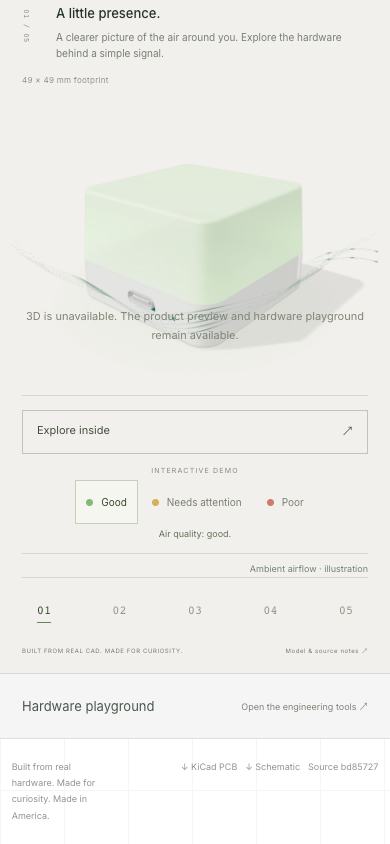
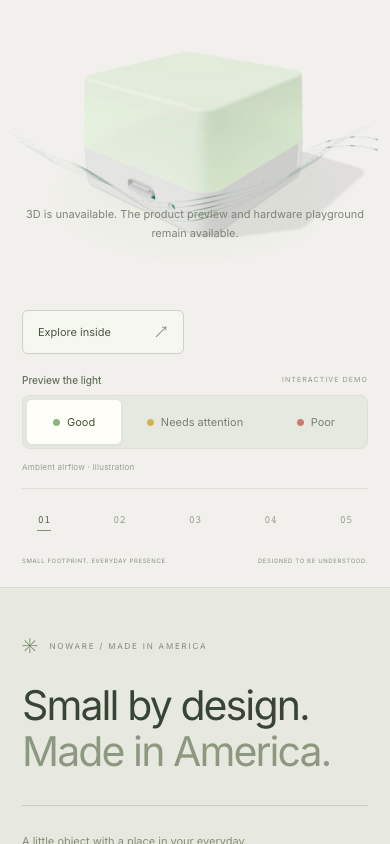
Refine NOWARE homepage with cohesive styling and Made in America presentation

diff --git a/src/showcase/showcase.css b/src/showcase/showcase.css
@@ -1,26 +1,155 @@
-.hardware-story{--air-color:#7dbb70;background:#f1f0ec;color:#29332e;position:relative;height:calc(100svh + 1000px);border-bottom:1px solid #d8d9d2}.hardware-sticky{position:sticky;top:0;min-height:760px;height:100svh;max-height:1050px;padding:24px 4.8% 16px;display:flex;flex-direction:column}.hardware-topline,.hardware-bottomline{display:flex;justify-content:space-between;font-size:9px;letter-spacing:1.5px;color:#777c74}.hardware-topline{padding-bottom:22px;border-bottom:1px solid #d9dcd3}.hardware-layout{display:grid;grid-template-columns:39% 61%;flex:1;min-height:390px}.hardware-copy{padding:43px 0 18px;position:relative;z-index:2}.hardware-kicker{font-size:8px;letter-spacing:1.4px;display:flex;align-items:center;gap:8px;color:#71796f}.hardware-kicker>span{width:5px;height:5px;background:#74906a;border-radius:50%}.hardware-copy h2{font-size:clamp(42px,4.4vw,70px);line-height:1.02;letter-spacing:-3px;font-weight:500;margin:25px 0 23px}.hardware-copy h2 em{font-style:normal;color:#899082}.hardware-intro{font-size:13px;line-height:1.8;color:#747b71}.hardware-cta{display:inline-flex;align-items:center;gap:40px;background:#29382e;color:#f5f5ed;padding:14px 18px;margin-top:24px;font-size:11px}.hardware-cta:hover{background:#435540}.hardware-chapter{margin-top:35px;max-width:290px;padding-left:34px;position:relative}.hardware-chapter>span{position:absolute;top:4px;left:0;font:8px monospace;color:#878e80;writing-mode:vertical-rl}.hardware-chapter h3{font-size:15px;font-weight:500;margin-bottom:8px}.hardware-chapter p{font-size:11px;color:#777f72;line-height:1.65}.hardware-visual{position:relative;min-width:0;min-height:400px}.hardware-canvas,.hardware-poster{position:absolute;inset:0;width:100%;height:100%}.hardware-poster{object-fit:contain;transition:opacity .5s}.hardware-ready .hardware-poster{opacity:0;pointer-events:none}.hardware-canvas canvas{display:block;touch-action:pan-y;cursor:grab}.hardware-canvas canvas:active{cursor:grabbing}.hardware-model-meta{position:absolute;z-index:2;top:23px;left:7%;right:0;display:flex;justify-content:space-between;font-size:9px;color:#909487;letter-spacing:.3px;pointer-events:none}.hardware-view-tools{position:absolute;bottom:16px;left:0;right:0;display:flex;align-items:center;justify-content:center;gap:22px;font-size:9px;color:#858c7d}.hardware-view-tools button{border:0;border-left:1px solid #cbd0c1;padding:6px 0 6px 22px;background:none;color:#58634e;font-size:9px}.hardware-controls{padding:20px 0;border-top:1px solid #d5d9cd;border-bottom:1px solid #d5d9cd;display:flex;justify-content:space-between;align-items:center;gap:15px}.hardware-assembly{display:flex;gap:8px}.hardware-assembly button{border:1px solid #bfc6b5;background:transparent;color:#424d3b;padding:12px 14px;min-height:44px;font-size:11px;white-space:nowrap}.hardware-assembly button:first-child{min-width:160px;display:flex;justify-content:space-between;gap:20px}.hardware-assembly button[aria-pressed=true]{background:#e1e5d9}.hardware-air{display:flex;align-items:center;gap:18px}.hardware-demo{font-size:8px;letter-spacing:1.2px;color:#858d7c}.hardware-air [role=group]{display:flex;gap:3px}.hardware-air button{border:1px solid transparent;padding:11px 12px;min-height:44px;background:none;font-size:10px;color:#7a8173;white-space:nowrap}.hardware-air button[aria-pressed=true]{border-color:#c7cebc;color:#35462d;background:#fafbf380}.hardware-air i{display:inline-block;width:7px;height:7px;border-radius:50%;background:#85b977;margin-right:8px}.hardware-air [data-air=attention] i{background:#d4b156}.hardware-air [data-air=poor] i{background:#ce7b6b}.hardware-status{font-size:10px;min-width:165px;color:#63705b}.hardware-details{min-height:75px;padding:15px 0;display:flex;align-items:flex-start;gap:20px;position:relative}.hardware-part-copy{display:flex;flex-direction:column;gap:6px;max-width:480px}.hardware-part-copy strong{font-size:11px;font-weight:500}.hardware-part-copy>span{font-size:10px;line-height:1.6;color:#7b8472}.hardware-part-buttons{margin-left:auto;display:flex;flex-wrap:wrap;max-width:470px;justify-content:flex-end;gap:3px}.hardware-part-buttons button{font-size:9px;min-height:32px;background:none;border:1px solid #d3d9ca;padding:6px 9px;color:#66745a}.hardware-part-buttons button[aria-pressed=true]{background:#dce5d2}.hardware-part-buttons[hidden],.hardware-flow-note[hidden]{display:none}.hardware-flow-note{font-size:9px;color:#687b5b;max-width:170px;line-height:1.5}.hardware-chapters{display:flex;gap:22px;border-top:1px solid #d5d9cd;padding:10px 0}.hardware-chapters button{font-size:10px;color:#8e9686;background:none;border:0;min-height:36px;padding:0}.hardware-chapters button>span{font:9px monospace;margin-right:8px}.hardware-chapters button[aria-current=step]{color:#334c2b}.hardware-chapters button[aria-current=step]>span{border-bottom:1px solid #688354;padding-bottom:5px}.hardware-chapters [data-action=scroll]{margin-left:auto;font-size:9px}.hardware-bottomline{font-size:8px;letter-spacing:1px;margin-top:auto;padding-top:5px}.hardware-anchors button{position:absolute;z-index:3;border:0;border-bottom:1px solid #aeb9a5;background:#f1f0ecdd;color:#425637;padding:7px 9px;font-size:9px;transform:translate(30px,-12px);min-height:32px}.hardware-anchors button:before{content:'';position:absolute;width:30px;height:1px;left:-30px;top:50%;background:#899c7a}.hardware-fallback{position:absolute;bottom:50px;left:0;right:0;text-align:center;color:#7c8474;font-size:11px}.hardware-story button:focus-visible,.hardware-story a:focus-visible{outline:2px solid #4c683d;outline-offset:4px}.hardware-story button:hover{color:#283f1e}.hardware-unavailable .hardware-view-tools{display:none}
-@media(min-width:1700px){.hardware-sticky{padding-left:max(5%,calc((100vw - 1530px)/2));padding-right:max(5%,calc((100vw - 1530px)/2))}}
-@media(max-width:1100px){.hardware-status{display:none}.hardware-air{gap:8px}.hardware-copy h2{font-size:49px}.hardware-demo{max-width:60px;line-height:1.5}.hardware-details{min-height:95px}.hardware-chapters{gap:15px}.hardware-chapters button{font-size:9px}}
-@media(max-width:700px){.hardware-story{height:auto}.hardware-sticky{position:relative;min-height:0;height:auto;max-height:none;padding:21px 22px 18px}.hardware-topline{font-size:7px;letter-spacing:1px;padding-bottom:17px}.hardware-layout{display:flex;flex-direction:column;min-height:0}.hardware-copy{padding:25px 0 0}.hardware-kicker{font-size:7px}.hardware-copy h2{font-size:43px;letter-spacing:-2px;margin:17px 0 15px;line-height:1.07}.desktop-break{display:none}.hardware-intro{font-size:11px}.hardware-cta{font-size:10px;margin-top:17px;padding:12px 14px}.hardware-chapter{margin-top:20px;max-width:100%;min-height:65px}.hardware-chapter h3{font-size:13px}.hardware-chapter p{font-size:10px;max-width:290px}.hardware-visual{height:330px;min-height:330px;margin:-5px -10px 0}.hardware-model-meta{top:10px;font-size:8px;left:10px;right:10px}.hardware-view-tools{bottom:5px}.hardware-controls{flex-direction:column;gap:12px;padding:14px 0;align-items:stretch}.hardware-assembly{justify-content:center}.hardware-assembly button{flex:1}.hardware-air{flex-wrap:wrap;justify-content:center;gap:4px 7px}.hardware-demo{max-width:none;width:100%;text-align:center;font-size:7px}.hardware-air button{font-size:10px;padding:9px 10px}.hardware-status{display:block;min-width:0;width:100%;text-align:center;font-size:9px}.hardware-details{min-height:75px;flex-wrap:wrap;gap:9px}.hardware-part-copy{max-width:none}.hardware-part-buttons{margin:0;justify-content:flex-start;max-width:none}.hardware-part-buttons button{min-height:44px}.hardware-flow-note{max-width:none}.hardware-chapters{gap:3px;justify-content:space-between;flex-wrap:wrap}.hardware-chapters button{font-size:0;min-width:44px;min-height:44px}.hardware-chapters button>span{font-size:12px;margin:0}.hardware-bottomline{font-size:6px;letter-spacing:.6px;gap:12px}.hardware-anchors button{font-size:8px;transform:translate(18px,-12px);min-height:36px}.hardware-anchors button:before{width:18px;left:-18px}}
-@media(prefers-reduced-motion:reduce){.hardware-story{height:auto}.hardware-sticky{position:relative}.hardware-poster{transition:none}}
-.hardware-anchors [data-anchor=pcb]{transform:translate(-175px,-12px)}.hardware-anchors [data-anchor=pcb]:before{left:auto;right:-60px;width:60px}.hardware-anchors [data-anchor=diffuser]{transform:translate(130px,-12px)}.hardware-anchors [data-anchor=diffuser]:before{left:-45px;width:45px}
-@media(max-width:700px){.hardware-anchors [data-anchor=pcb]{transform:translate(-110px,-12px)}.hardware-anchors [data-anchor=pcb]:before{right:-20px;width:20px}.hardware-anchors [data-anchor=diffuser]{transform:translate(55px,-12px)}.hardware-anchors [data-anchor=diffuser]:before{left:-20px;width:20px}}
-.hardware-story>.hardware-sticky>.hardware-flow-note{max-width:none;margin:8px 0 0;min-height:15px;font-size:9px;text-align:right;color:#72817c}
-.hardware-playground{background:#f5f5f5}.hardware-playground>summary{list-style:none;display:flex;justify-content:space-between;align-items:center;cursor:pointer;padding:28px 4.8%;font-size:13px;color:#4c584e;border-bottom:1px solid #dedfd8}.hardware-playground>summary::-webkit-details-marker{display:none}.hardware-playground>summary span{font-size:10px;color:#7b8378}.hardware-playground>summary:focus-visible{outline:2px solid #4c683d;outline-offset:-5px}.hardware-playground[open]>summary{background:#e8ebe3}
-@media(max-width:700px){.hardware-playground>summary{padding:24px 22px;gap:20px}.hardware-playground>summary span{font-size:9px}}
-/* Make the interactive choices read as controls, rather than a footer legend. */
-.hardware-air{display:grid;gap:10px;justify-content:start}.hardware-air-heading{display:flex;align-items:center;justify-content:space-between;gap:24px;font-size:12px;font-weight:500;color:#3d4d3b}.hardware-air .hardware-demo{font-size:8px;font-weight:400;max-width:none;width:auto;letter-spacing:1px}.hardware-air [role=group]{gap:7px}.hardware-air button{min-height:46px;border:1px solid #bdc7b5;background:#ffffff38;padding:12px 16px;color:#4b5845;font-size:12px;transition:background .2s,border-color .2s,box-shadow .2s}.hardware-air button:hover{background:#ffffff90;border-color:#71836a}.hardware-air button[aria-pressed=true]{border-color:#6f8661;background:#e4ecd9;box-shadow:inset 0 -2px #6f8661}.hardware-air i{width:9px;height:9px;margin-right:9px}.hardware-air .hardware-status{display:block;text-align:left;width:auto;min-width:0;font-size:10px}.hardware-assembly button{font-size:12px;min-height:46px;background:#e5e9df;border-color:#b6c0ac}.hardware-assembly button:first-child{min-width:180px}
-@media(max-width:700px){.hardware-air{width:100%}.hardware-air-heading{font-size:12px;gap:12px}.hardware-air [role=group]{display:grid;grid-template-columns:1fr 1.5fr 1fr;gap:5px}.hardware-air button{font-size:11px;padding:12px 8px}.hardware-air i{margin-right:6px}.hardware-air .hardware-demo{font-size:7px}}
-.hardware-controls{justify-content:flex-start;gap:28px;padding:18px 0 18px 39%;align-items:center;border-top:0}.hardware-chapters{border-top:0}
-@media(max-width:1100px){.hardware-controls{padding-left:0;justify-content:center}}
-@media(max-width:700px){.hardware-controls{gap:18px;align-items:stretch}.hardware-assembly{justify-content:flex-start}.hardware-assembly button{flex:0 0 auto}}
-/* Quiet, tactile controls that share the product's softer finish. */
-.hardware-controls{align-items:flex-end;gap:24px;padding-top:16px;padding-bottom:22px}
-.hardware-assembly button,.hardware-assembly button[aria-pressed=true]{min-height:44px;min-width:172px;border:1px solid #cdd2c5;border-radius:6px;background:#f7f7f2;color:#47533e;padding:11px 15px;font-size:11px;box-shadow:0 1px 2px #25301d05}
-.hardware-assembly button:hover{background:#fffef8;border-color:#a4af98}.hardware-assembly button span{font-size:14px;color:#7b8770}
-.hardware-air{gap:9px}.hardware-air-heading{font-size:10px;font-weight:500;color:#64705b;gap:35px}.hardware-air .hardware-demo{font-size:7px;letter-spacing:1.1px;color:#909787}
-.hardware-air [role=group]{display:flex;gap:3px;padding:4px;background:#e6e9e0;border:1px solid #dce1d3;border-radius:8px}
-.hardware-air button{min-height:36px;border:0;border-radius:5px;background:transparent;padding:9px 14px;font-size:11px;color:#75806b;box-shadow:none}
-.hardware-air button:hover{background:#f2f4ed;color:#44543a}.hardware-air button[aria-pressed=true]{border:0;background:#fffef9;color:#3e5132;box-shadow:0 1px 4px #2c3d2414,inset 0 0 0 1px #ffffff80}
-.hardware-air i{width:7px;height:7px;margin-right:7px}.hardware-air .hardware-status{position:absolute;width:1px;height:1px;padding:0;margin:-1px;overflow:hidden;clip-path:inset(50%);white-space:nowrap}
-@media(max-width:700px){.hardware-controls{align-items:stretch;gap:18px}.hardware-air [role=group]{display:grid;grid-template-columns:1fr 1.5fr 1fr}.hardware-air button{min-height:40px;padding:10px 7px;font-size:10px}.hardware-air-heading{font-size:10px}.hardware-assembly button:first-child{min-width:172px}}
+/* NOWARE product presentation. Engineering-tool styles remain in style.css. */
+.noware-home { background: #f1f0ec; }
+.noware-home header { height: 72px; padding: 0 4.8%; background: #f1f0ec; border-color: #dedfd6; }
+.noware-home header .brand strong { font-size: 27px; letter-spacing: -1.5px; }
+.noware-home header .brand > span { font-size: 11px; color: #899080; }
+.noware-home header .header-right { letter-spacing: .6px; }
+.noware-home header .github { color: #54604c; }
+.noware-home footer { padding: 25px 4.8%; background: #eeeee8; border-top: 1px solid #dedfd6; color: #7c8474; }
+.hardware-story {
+ --air-color: #7dbb70;
+ background: #f1f0ec; color: #29332e; position: relative;
+ height: calc(100svh + 1000px); border-bottom: 1px solid #d8d9d2;
+}
+.hardware-sticky {
+ position: sticky; top: 0; min-height: 740px; height: calc(100svh - 72px); max-height: 1050px;
+ padding: 25px 4.8% 20px; display: flex; flex-direction: column;
+}
+.hardware-topline, .hardware-bottomline {
+ display: flex; justify-content: space-between; gap: 20px;
+ font-size: 8px; letter-spacing: 1.5px; color: #87907e;
+}
+.hardware-topline { padding-bottom: 20px; }
+.hardware-bottomline { margin-top: auto; padding-top: 18px; font-size: 7px; letter-spacing: 1.2px; }
+.hardware-layout { display: grid; grid-template-columns: 39% 61%; flex: 1; min-height: 380px; }
+.hardware-copy { padding: 42px 0 12px; position: relative; z-index: 2; }
+.hardware-kicker { display: flex; align-items: center; gap: 9px; font-size: 9px; letter-spacing: 1.9px; color: #6f7d65; }
+.hardware-kicker > span { width: 5px; height: 5px; background: #7c8d6f; border-radius: 50%; }
+.hardware-copy h2 { font-size: clamp(44px,4.5vw,72px); line-height: 1.025; letter-spacing: -3.5px; font-weight: 500; margin: 25px 0; }
+.hardware-copy h2 em { font-style: normal; color: #929988; }
+.hardware-intro { font-size: 13px; line-height: 1.85; color: #7e8578; }
+.hardware-cta { display: inline-flex; align-items: center; gap: 36px; padding: 14px 19px; margin-top: 25px; border-radius: 4px; background: #303e31; color: #f6f6ee; font-size: 11px; transition: background .2s; }
+.hardware-cta:hover { background: #4b5a42; }
+.hardware-chapter { margin-top: 33px; padding-left: 32px; max-width: 285px; position: relative; }
+.hardware-chapter > span { position: absolute; top: 4px; left: 0; font: 8px monospace; color: #929a87; writing-mode: vertical-rl; }
+.hardware-chapter h3 { font-size: 13px; font-weight: 500; margin-bottom: 7px; }
+.hardware-chapter p { font-size: 10px; line-height: 1.7; color: #858d7b; }
+.hardware-visual { position: relative; min-width: 0; min-height: 380px; }
+.hardware-canvas, .hardware-poster { position: absolute; inset: 0; width: 100%; height: 100%; }
+.hardware-poster { object-fit: contain; transition: opacity .5s; }
+.hardware-ready .hardware-poster { opacity: 0; pointer-events: none; }
+.hardware-canvas canvas { display: block; touch-action: pan-y; cursor: grab; }
+.hardware-canvas canvas:active { cursor: grabbing; }
+.hardware-model-meta { position: absolute; z-index: 2; top: 16px; left: 7%; font-size: 9px; letter-spacing: .2px; color: #8e9784; pointer-events: none; }
+.hardware-view-tools { position: absolute; bottom: 7px; left: 0; right: 0; display: flex; align-items: center; justify-content: center; gap: 20px; font-size: 9px; color: #89927f; }
+.hardware-view-tools button { border: 0; border-left: 1px solid #cfd5c6; padding: 7px 0 7px 20px; background: none; color: #6e7b61; font-size: 9px; }
+.hardware-controls { display: flex; justify-content: center; align-items: flex-end; gap: 24px; padding: 18px 0 14px 39%; }
+.hardware-assembly { display: flex; }
+.hardware-assembly button { display: flex; align-items: center; justify-content: space-between; gap: 32px; min-width: 169px; min-height: 46px; padding: 11px 15px; border: 1px solid #cdd2c5; border-radius: 6px; background: #f7f7f2; color: #47533e; font-size: 11px; box-shadow: 0 1px 2px #25301d05; }
+.hardware-assembly button:hover { background: #fffef8; border-color: #a4af98; }
+.hardware-assembly button span { font-size: 14px; color: #7b8770; }
+.hardware-air { display: grid; gap: 9px; }
+.hardware-air-heading { display: flex; align-items: center; justify-content: space-between; gap: 30px; font-size: 10px; font-weight: 500; color: #64705b; }
+.hardware-demo { font-size: 7px; font-weight: 400; letter-spacing: 1.1px; color: #909787; }
+.hardware-air [role=group] { display: flex; gap: 3px; padding: 4px; border: 1px solid #dce1d3; border-radius: 8px; background: #e6e9e0; }
+.hardware-air button { white-space: nowrap; min-height: 36px; padding: 9px 14px; border: 0; border-radius: 5px; background: transparent; font-size: 11px; color: #5d6953; transition: background .2s,box-shadow .2s; }
+.hardware-air button:hover { background: #f2f4ed; color: #44543a; }
+.hardware-air button[aria-pressed=true] { background: #fffef9; color: #3e5132; box-shadow: 0 1px 4px #2c3d2414,inset 0 0 0 1px #ffffff80; }
+.hardware-air i { display: inline-block; width: 7px; height: 7px; margin-right: 7px; border-radius: 50%; background: #85b977; }
+.hardware-air [data-air=attention] i { background: #d4b156; }
+.hardware-air [data-air=poor] i { background: #ce7b6b; }
+.hardware-status { position: absolute; width: 1px; height: 1px; padding: 0; margin: -1px; overflow: hidden; clip-path: inset(50%); white-space: nowrap; }
+.hardware-flow-note { text-align: center; margin: 0 0 12px 39%; font-size: 8px; color: #98a18e; letter-spacing: .25px; }
+.hardware-chapters { display: flex; justify-content: space-between; gap: 12px; margin-left: 39%; padding-top: 8px; border-top: 1px solid #dde1d5; }
+.hardware-chapters button { border: 0; background: none; min-height: 34px; padding: 0; font-size: 9px; color: #9aa28f; }
+.hardware-chapters button > span { margin-right: 6px; font: 8px monospace; }
+.hardware-chapters button[aria-current=step] { color: #526844; }
+.hardware-chapters button[aria-current=step] > span { border-bottom: 1px solid #7e926c; padding-bottom: 4px; }
+.hardware-chapters [data-action=scroll] { position: absolute; bottom: 18px; right: 4.8%; min-height: 22px; font-size: 8px; background: #f1f0ec; }
+.hardware-story:has([data-action=scroll]:not([hidden])) .hardware-bottomline > span:last-child { visibility: hidden; }
+.hardware-anchors button { position: absolute; z-index: 3; min-height: 32px; padding: 7px 9px; border: 0; border-bottom: 1px solid #aeb9a5; background: #f1f0ecdd; color: #425637; font-size: 9px; transform: translate(30px,-12px); }
+.hardware-anchors button:before { content: ''; position: absolute; width: 30px; height: 1px; left: -30px; top: 50%; background: #899c7a; }
+.hardware-anchors [data-anchor=pcb] { transform: translate(-175px,-12px); }
+.hardware-anchors [data-anchor=pcb]:before { left: auto; right: -60px; width: 60px; }
+.hardware-anchors [data-anchor=diffuser] { transform: translate(130px,-12px); }
+.hardware-anchors [data-anchor=diffuser]:before { left: -45px; width: 45px; }
+.hardware-fallback { position: absolute; bottom: 45px; left: 0; right: 0; text-align: center; color: #7c8474; font-size: 11px; }
+.hardware-unavailable .hardware-view-tools { display: none; }
+.hardware-story button:focus-visible, .hardware-story a:focus-visible, .hardware-origin a:focus-visible { outline: 2px solid #6a805b; outline-offset: 4px; }
+.hardware-origin { padding: 75px 8% 55px; background: #e7e9e0; color: #384534; }
+.origin-eyebrow { display: flex; align-items: center; gap: 10px; font-size: 8px; letter-spacing: 1.8px; color: #7d8872; }
+.origin-eyebrow > span { font-size: 21px; color: #6b7f5b; }
+.hardware-origin h2 { font-size: clamp(38px,4.5vw,68px); line-height: 1.12; font-weight: 400; letter-spacing: -2.5px; margin: 30px 0 40px; }
+.hardware-origin h2 > span { color: #8d9881; }
+.origin-bottom { display: flex; justify-content: space-between; align-items: flex-end; gap: 30px; padding-top: 25px; border-top: 1px solid #cbd1c0; }
+.origin-bottom p { font-size: 12px; color: #818c75; line-height: 1.9; }
+.origin-link { display: inline-flex; gap: 55px; font-size: 12px; padding: 12px 0; border-bottom: 1px solid #8f9d80; }
+.origin-link:hover { color: #6e845a; }
+.hardware-playground { background: #eeeee8; }
+.hardware-playground > summary { list-style: none; display: flex; justify-content: space-between; align-items: center; cursor: pointer; padding: 27px 4.8%; font-size: 12px; color: #66745a; }
+.hardware-playground > summary::-webkit-details-marker { display: none; }
+.hardware-playground > summary span { font-size: 10px; color: #8a947e; }
+.hardware-playground > summary:focus-visible { outline: 2px solid #4c683d; outline-offset: -5px; }
+.hardware-playground[open] > summary { background: #e8ebe3; }
+@media(min-width:1700px) {
+ .hardware-sticky { padding-left: max(5%,calc((100vw - 1530px)/2)); padding-right: max(5%,calc((100vw - 1530px)/2)); }
+}
+@media(max-width:1100px) {
+ .hardware-copy h2 { font-size: 48px; letter-spacing: -2.5px; }
+ .hardware-controls { padding-left: 25%; gap: 16px; }
+ .hardware-chapters { margin-left: 25%; }
+ .hardware-flow-note { margin-left: 25%; }
+ .hardware-air button { padding: 9px 10px; font-size: 10px; }
+ .hardware-chapters button { font-size: 8px; }
+}
+@media(max-width:700px) {
+ .noware-home header { height: 64px; padding: 0 22px; }
+ .noware-home header .brand strong { font-size: 25px; }
+ .noware-home header .github { font-size: 9px; margin-left: 7px; }
+ .noware-home header .signout { font-size: 8px; }
+ .noware-home footer { padding: 22px; font-size: 8px; gap: 20px; }
+ .hardware-story { height: auto; }
+ .hardware-sticky { position: relative; height: auto; min-height: 0; max-height: none; padding: 20px 22px; }
+ .hardware-topline { font-size: 7px; letter-spacing: 1px; padding-bottom: 20px; }
+ .hardware-layout { display: flex; flex-direction: column; min-height: 0; }
+ .hardware-copy { padding: 17px 0 0; }
+ .hardware-kicker { font-size: 8px; letter-spacing: 1.6px; }
+ .hardware-copy h2 { font-size: 45px; letter-spacing: -2.3px; margin: 21px 0 18px; }
+ .desktop-break { display: none; }
+ .hardware-intro { font-size: 12px; }
+ .hardware-cta { margin-top: 20px; padding: 12px 16px; font-size: 10px; }
+ .hardware-chapter { display: none; }
+ .hardware-visual { height: 340px; min-height: 340px; margin: 20px -10px 0; }
+ .hardware-model-meta { top: 4px; left: 10px; font-size: 8px; }
+ .hardware-view-tools { bottom: 0; font-size: 8px; }
+ .hardware-view-tools button { font-size: 8px; }
+ .hardware-controls { padding: 22px 0 12px; flex-direction: column; align-items: stretch; gap: 20px; }
+ .hardware-assembly button { min-width: 162px; min-height: 44px; font-size: 11px; }
+ .hardware-air { width: 100%; }
+ .hardware-air-heading { font-size: 10px; }
+ .hardware-air [role=group] { display: grid; grid-template-columns: 1fr 1.5fr 1fr; }
+ .hardware-air button { min-height: 44px; padding: 10px 7px; font-size: 11px; }
+ .hardware-flow-note { margin: 0 0 14px; font-size: 8px; text-align: left; }
+ .hardware-chapters { margin-left: 0; gap: 0; }
+ .hardware-chapters button { min-width: 44px; min-height: 44px; font-size: 0; }
+ .hardware-chapters button > span { font-size: 11px; margin: 0; }
+ .hardware-bottomline { font-size: 6px; gap: 12px; line-height: 1.8; letter-spacing: .6px; padding-top: 15px; }
+ .hardware-anchors button { font-size: 8px; min-height: 36px; transform: translate(18px,-12px); }
+ .hardware-anchors button:before { width: 18px; left: -18px; }
+ .hardware-anchors [data-anchor=pcb] { transform: translate(-110px,-12px); }
+ .hardware-anchors [data-anchor=pcb]:before { right: -20px; width: 20px; }
+ .hardware-anchors [data-anchor=diffuser] { transform: translate(55px,-12px); }
+ .hardware-anchors [data-anchor=diffuser]:before { left: -20px; width: 20px; }
+ .hardware-origin { padding: 45px 22px 35px; }
+ .hardware-origin h2 { font-size: 41px; letter-spacing: -1.9px; margin: 25px 0 30px; }
+ .origin-bottom { flex-direction: column; align-items: flex-start; gap: 20px; }
+ .origin-bottom p { font-size: 11px; }
+ .origin-link { font-size: 11px; gap: 40px; }
+ .hardware-playground > summary { padding: 24px 22px; gap: 20px; font-size: 11px; }
+ .hardware-playground > summary span { font-size: 9px; }
+}
+@media(prefers-reduced-motion:reduce) {
+ .hardware-story { height: auto; }
+ .hardware-sticky { position: relative; }
+ .hardware-poster, .hardware-air button, .hardware-cta { transition: none; }
+}

diff --git a/src/showcase/index.js b/src/showcase/index.js
@@ -1,9 +1,14 @@
 import './showcase.css';
 import {chapters,storyPose} from './config.js';
 export function mountShowcase(){
+ document.body.classList.add('noware-home');
  const section=document.createElement('section');section.className='hardware-story';section.id='hardware';section.setAttribute('aria-label','Explore AirCube hardware');
- section.innerHTML=`<div class="hardware-sticky"><div class="hardware-topline"><span>NOWARE / OBJECT STUDIES</span><span>001 — AIRCUBE BASE</span></div><div class="hardware-layout"><div class="hardware-copy"><div class="hardware-kicker"><span></span> SMALL HARDWARE. REAL POSSIBILITY.</div><h2>See the air.<br><em>Know your<br class="desktop-break"> hardware.</em></h2><p class="hardware-intro">A quiet signal. A thoughtful little object.<br>Explore what happens beneath the surface.</p><a class="hardware-cta" href="#playground">Explore the board <span>↗</span></a><div class="hardware-chapter"><span id="hardware-number">01 / 05</span><h3 id="hardware-title">A little presence.</h3><p id="hardware-description">A clearer picture of the air around you. Explore the hardware behind a simple signal.</p></div></div><div class="hardware-visual"><div class="hardware-model-meta"><span>About the size of an egg</span></div><img class="hardware-poster" src="/showcase/poster.webp" alt="AirCube Base, a softly illuminated translucent top on a warm white rounded enclosure" width="1100" height="1000" fetchpriority="high"><div class="hardware-canvas"></div><div class="hardware-anchors"><button data-anchor="diffuser" data-part="diffuser" hidden>Diffuser</button><button data-anchor="U2" data-part="U2" hidden>ENS161</button><button data-anchor="pcb" data-part="pcb" hidden>Base PCB</button></div><div class="hardware-view-tools"><span>↔ Drag to rotate</span><button data-action="reset">Reset view ↺</button></div><p class="hardware-fallback" role="status">Loading the interactive model…</p></div></div><div class="hardware-controls"><div class="hardware-assembly"><button data-action="explode" aria-pressed="false">Explore inside <span>↗</span></button></div><div class="hardware-air"><div class="hardware-air-heading"><span>Try the air quality</span><span class="hardware-demo">INTERACTIVE DEMO</span></div><div role="group" aria-label="Air quality demonstration"><button data-air="good" aria-pressed="true"><i></i>Good</button><button data-air="attention" aria-pressed="false"><i></i>Needs attention</button><button data-air="poor" aria-pressed="false"><i></i>Poor</button></div><span class="hardware-status" role="status">Air quality: good.</span></div></div><p class="hardware-flow-note">Ambient airflow · illustration</p><nav class="hardware-chapters" aria-label="Hardware story">${['Meet the hardware','Explore inside','Follow the air','Read the light','Keep exploring'].map((t,i)=>`<button data-chapter="${i}" aria-current="${i===0?'step':'false'}"><span>0${i+1}</span>${t}</button>`).join('')}<button data-action="scroll" hidden>Resume scroll story ↓</button></nav><div class="hardware-bottomline"><span>BUILT FROM REAL CAD. MADE FOR CURIOSITY.</span><a href="/showcase/README.md" target="_blank" rel="noreferrer">Model & source notes ↗</a></div></div>`;
+ section.innerHTML=`<div class="hardware-sticky"><div class="hardware-topline"><span>NOWARE / OBJECT STUDIES</span><span>001 — AIRCUBE BASE</span></div><div class="hardware-layout"><div class="hardware-copy"><div class="hardware-kicker"><span></span> MADE IN AMERICA</div><h2>See the air.<br><em>Know your<br class="desktop-break"> hardware.</em></h2><p class="hardware-intro">A quiet signal. A thoughtful little object.<br>A closer look at the air around you.</p><a class="hardware-cta" href="#playground">Explore the board <span>↗</span></a><div class="hardware-chapter"><span id="hardware-number">01 / 05</span><h3 id="hardware-title">A little presence.</h3><p id="hardware-description">A clearer picture of the air around you. Explore the hardware behind a simple signal.</p></div></div><div class="hardware-visual"><div class="hardware-model-meta"><span>About the size of an egg</span></div><img class="hardware-poster" src="/showcase/poster.webp" alt="AirCube Base, a softly illuminated translucent top on a warm white rounded enclosure" width="1100" height="1000" fetchpriority="high"><div class="hardware-canvas"></div><div class="hardware-anchors"><button data-anchor="diffuser" data-part="diffuser" hidden>Diffuser</button><button data-anchor="U2" data-part="U2" hidden>ENS161</button><button data-anchor="pcb" data-part="pcb" hidden>Base PCB</button></div><div class="hardware-view-tools"><span>↔ Drag to rotate</span><button data-action="reset">Reset view ↺</button></div><p class="hardware-fallback" role="status">Loading the interactive model…</p></div></div><div class="hardware-controls"><div class="hardware-assembly"><button data-action="explode" aria-pressed="false">Explore inside <span>↗</span></button></div><div class="hardware-air"><div class="hardware-air-heading"><span>Preview the light</span><span class="hardware-demo">INTERACTIVE DEMO</span></div><div role="group" aria-label="Air quality demonstration"><button data-air="good" aria-pressed="true"><i></i>Good</button><button data-air="attention" aria-pressed="false"><i></i>Needs attention</button><button data-air="poor" aria-pressed="false"><i></i>Poor</button></div><span class="hardware-status" role="status">Air quality: good.</span></div></div><p class="hardware-flow-note">Ambient airflow · illustration</p><nav class="hardware-chapters" aria-label="Hardware story">${['Meet the hardware','Explore inside','Follow the air','Read the light','Keep exploring'].map((t,i)=>`<button data-chapter="${i}" aria-current="${i===0?'step':'false'}"><span>0${i+1}</span>${t}</button>`).join('')}<button data-action="scroll" hidden>Resume scroll story ↓</button></nav><div class="hardware-bottomline"><span>SMALL FOOTPRINT. EVERYDAY PRESENCE.</span><span>DESIGNED TO BE UNDERSTOOD.</span></div></div>`;
  document.querySelector('header').after(section);
+ const origin=document.createElement('section');origin.className='hardware-origin';origin.setAttribute('aria-labelledby','origin-title');
+ origin.innerHTML='<div class="origin-eyebrow"><span aria-hidden="true">✳</span> NOWARE / MADE IN AMERICA</div><h2 id="origin-title">Small by design.<br><span>Made in America.</span></h2><div class="origin-bottom"><p>A little object with a place in your everyday.<br>From the enclosure to the electronics, there’s more to explore.</p><a href="#playground" class="origin-link">Take a closer look <span>↗</span></a></div>';
+ section.after(origin);
+ const notes=document.createElement('a');notes.href='/showcase/README.md';notes.textContent='Product notes ↗';notes.target='_blank';notes.rel='noreferrer';document.querySelector('footer > div').append(notes);
  // Keep the engineering tools available on demand, without a PCB list filling
  // the landing page. Existing event handlers and DOM references remain intact.
  const playground=document.createElement('details');playground.id='playground';playground.className='hardware-playground';
@@ -11,6 +16,7 @@ export function mountShowcase(){
  const intro=document.querySelector('.intro');intro.before(playground);
  playground.append(intro,document.querySelector('main'));
  section.querySelector('.hardware-cta').addEventListener('click',()=>{playground.open=true;});
+ origin.querySelector('a').addEventListener('click',()=>{playground.open=true;});
  const $=s=>section.querySelector(s),reduced=matchMedia('(prefers-reduced-motion: reduce)'),mobile=matchMedia('(max-width: 700px)');
  const state={progress:0,air:'good',selected:null,mode:reduced.matches||mobile.matches?'manual':'scroll',exploded:false,rotation:0,tilt:0,dragging:false,reduced:reduced.matches};let scene,dead=false;
  function sync(){const pose=storyPose(state.progress),expanded=state.mode==='scroll'?pose.explode>.5:state.exploded;section.dataset.mode=state.mode;section.dataset.chapter=pose.chapter;section.dataset.selected=state.selected||'';section.style.setProperty('--air-color',({good:'#7dbb70',attention:'#cea338',poor:'#d26c5c'})[state.air]);$('#hardware-number').textContent=`0${pose.chapter+1} / 05`;$('#hardware-title').textContent=chapters[pose.chapter][1];$('#hardware-description').textContent=chapters[pose.chapter][2];$('[data-action="explode"]').innerHTML=(expanded?'Reassemble':'Explore inside')+' <span>↗</span>';$('[data-action="explode"]').setAttribute('aria-pressed',expanded);$('[data-action="scroll"]').hidden=state.mode==='scroll'||mobile.matches||state.reduced;section.querySelectorAll('[data-chapter]').forEach(b=>b.setAttribute('aria-current',+b.dataset.chapter===pose.chapter?'step':'false'));scene?.wake();}

diff --git a/SHOWCASE-HANDOFF.md b/SHOWCASE-HANDOFF.md
@@ -52,3 +52,5 @@ The separate authenticated live dashboard and production deployment are unchange
 The PCB list and engineering tools are now collapsed by default under Hardware playground. The hero CTA opens them on demand. Component selection highlights the model without a persistent explanatory text row.
 
 Airflow is always visible in every chapter and manual assembly state. There is no on/off control. Reduced motion keeps the same trails visible but stationary. The fallback poster includes airflow.
+
+The final editorial pass unifies the header, hero, controls, and footer; adds the Made in America closing section; and moves the provenance link into the footer. The closing CTA opens the existing playground. Styles are consolidated in one readable stylesheet rather than stacked overrides.
